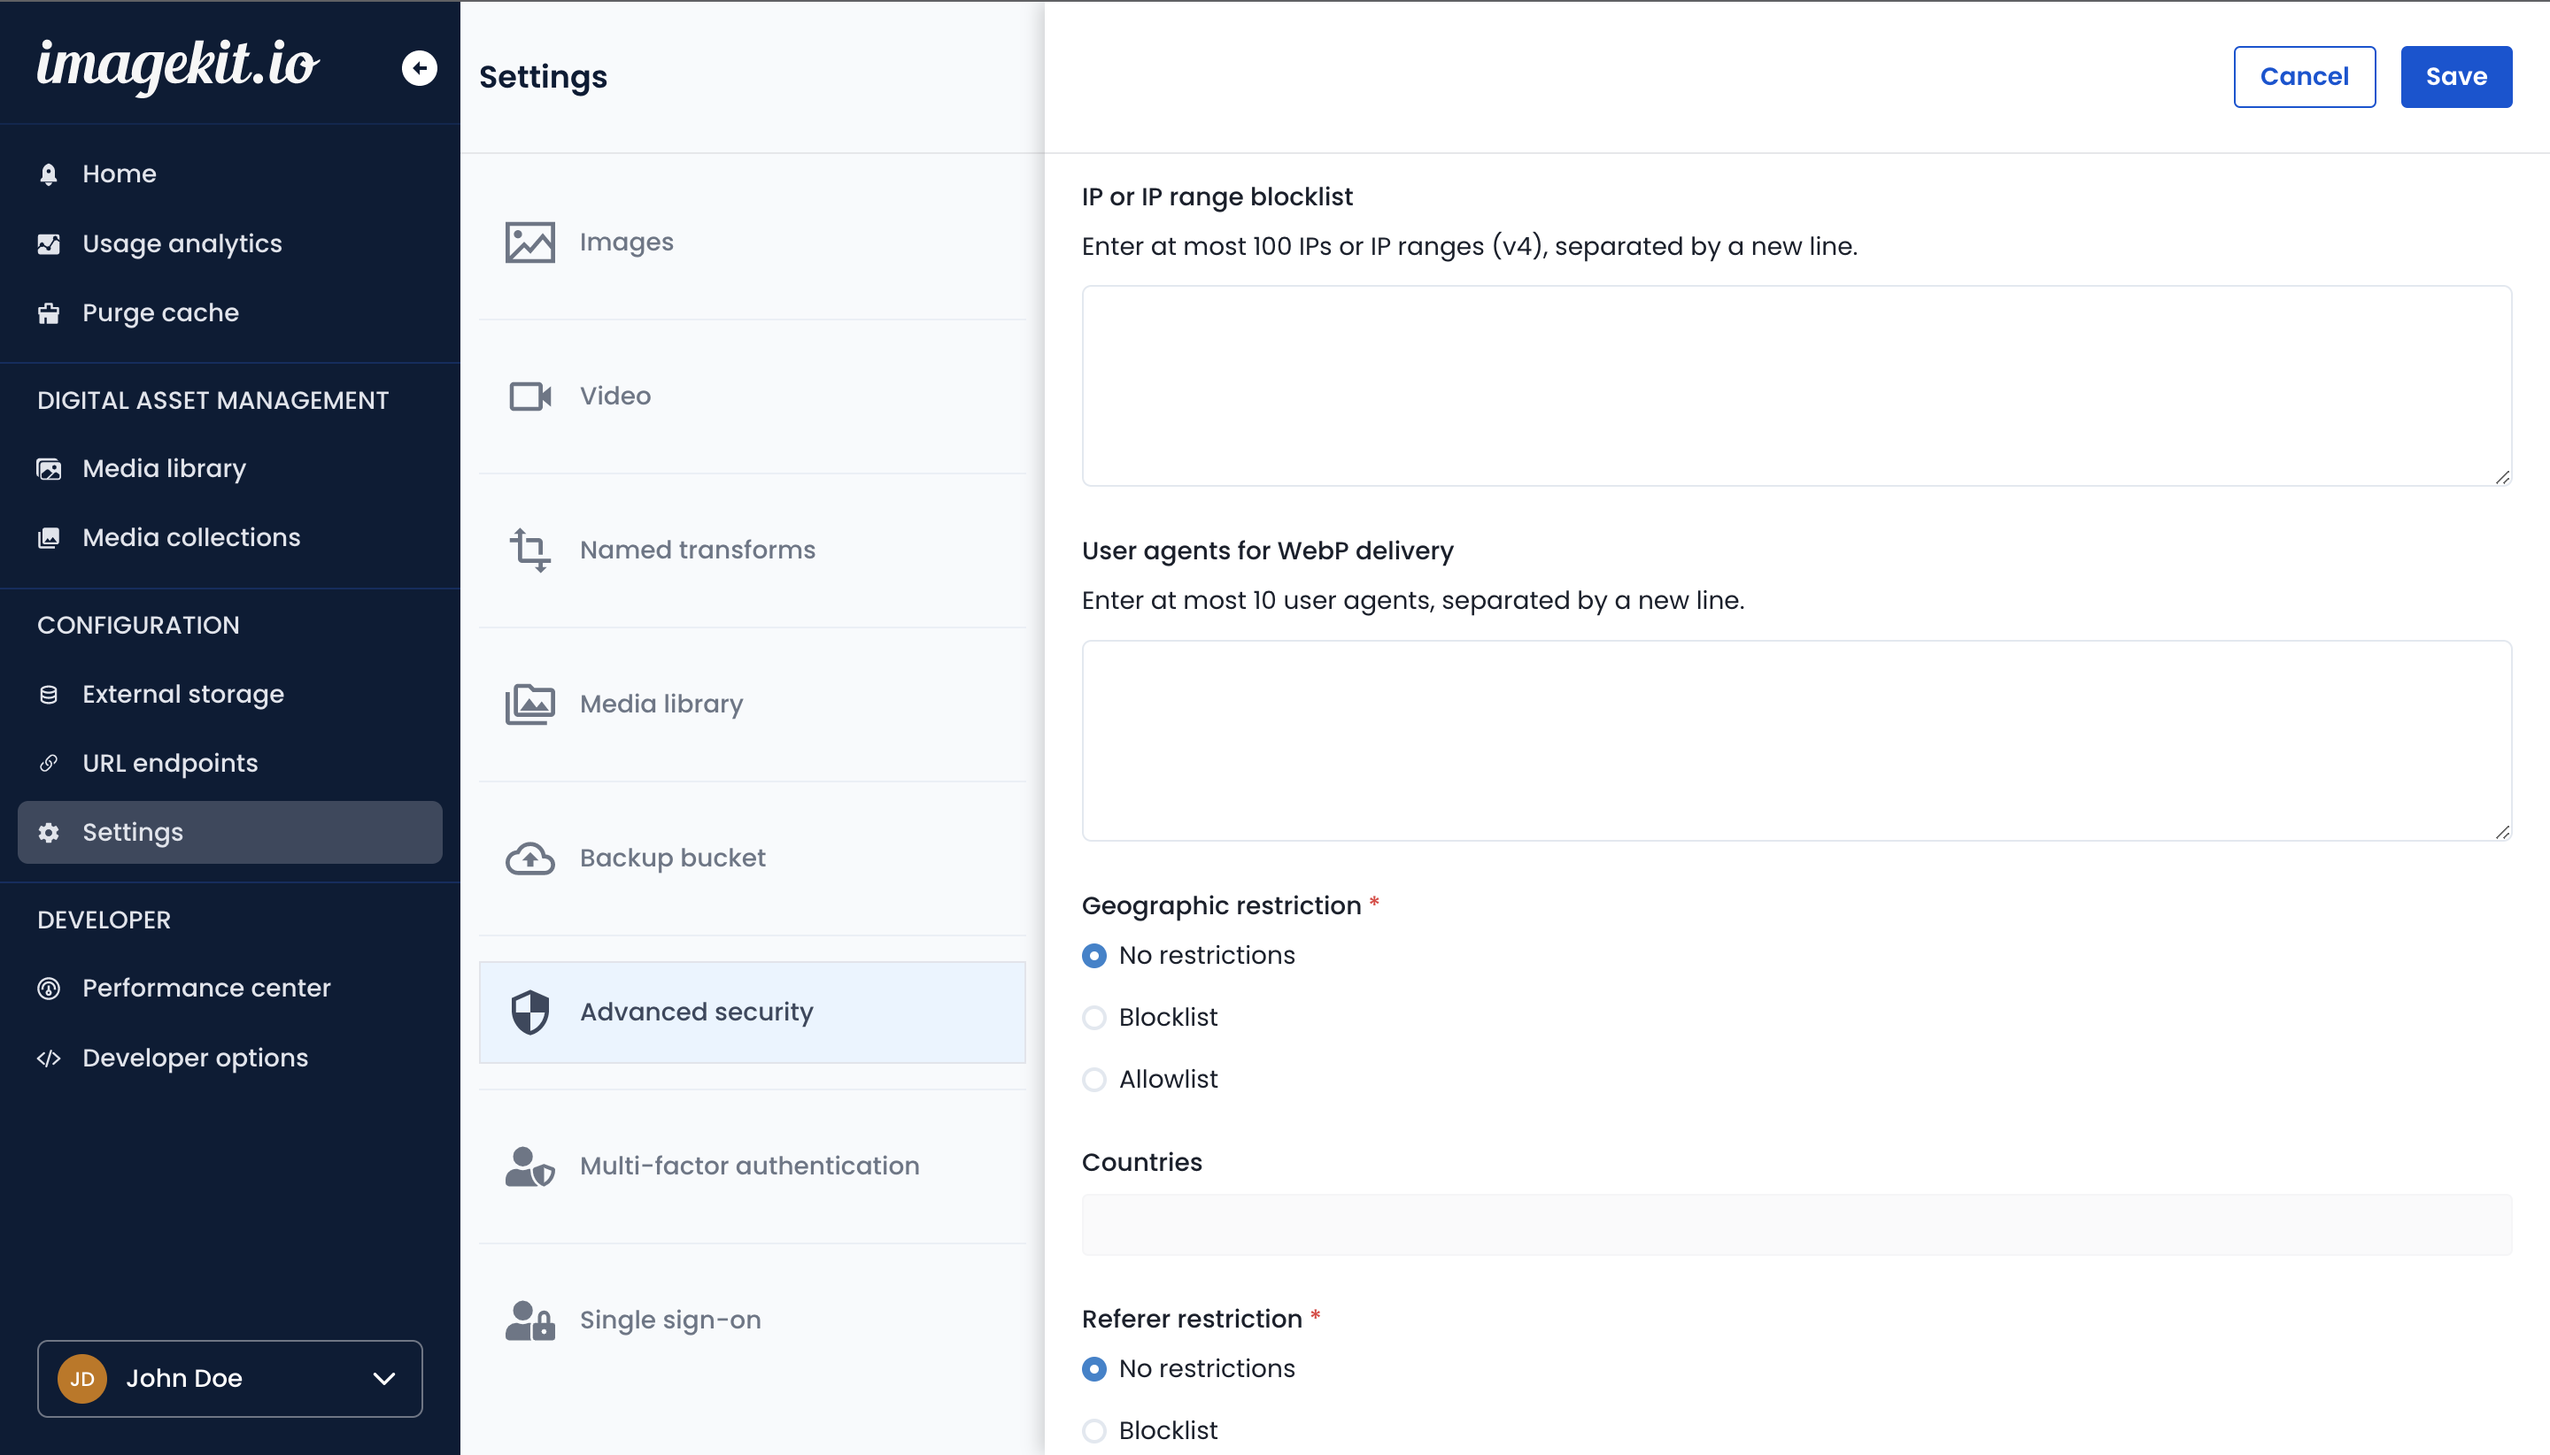
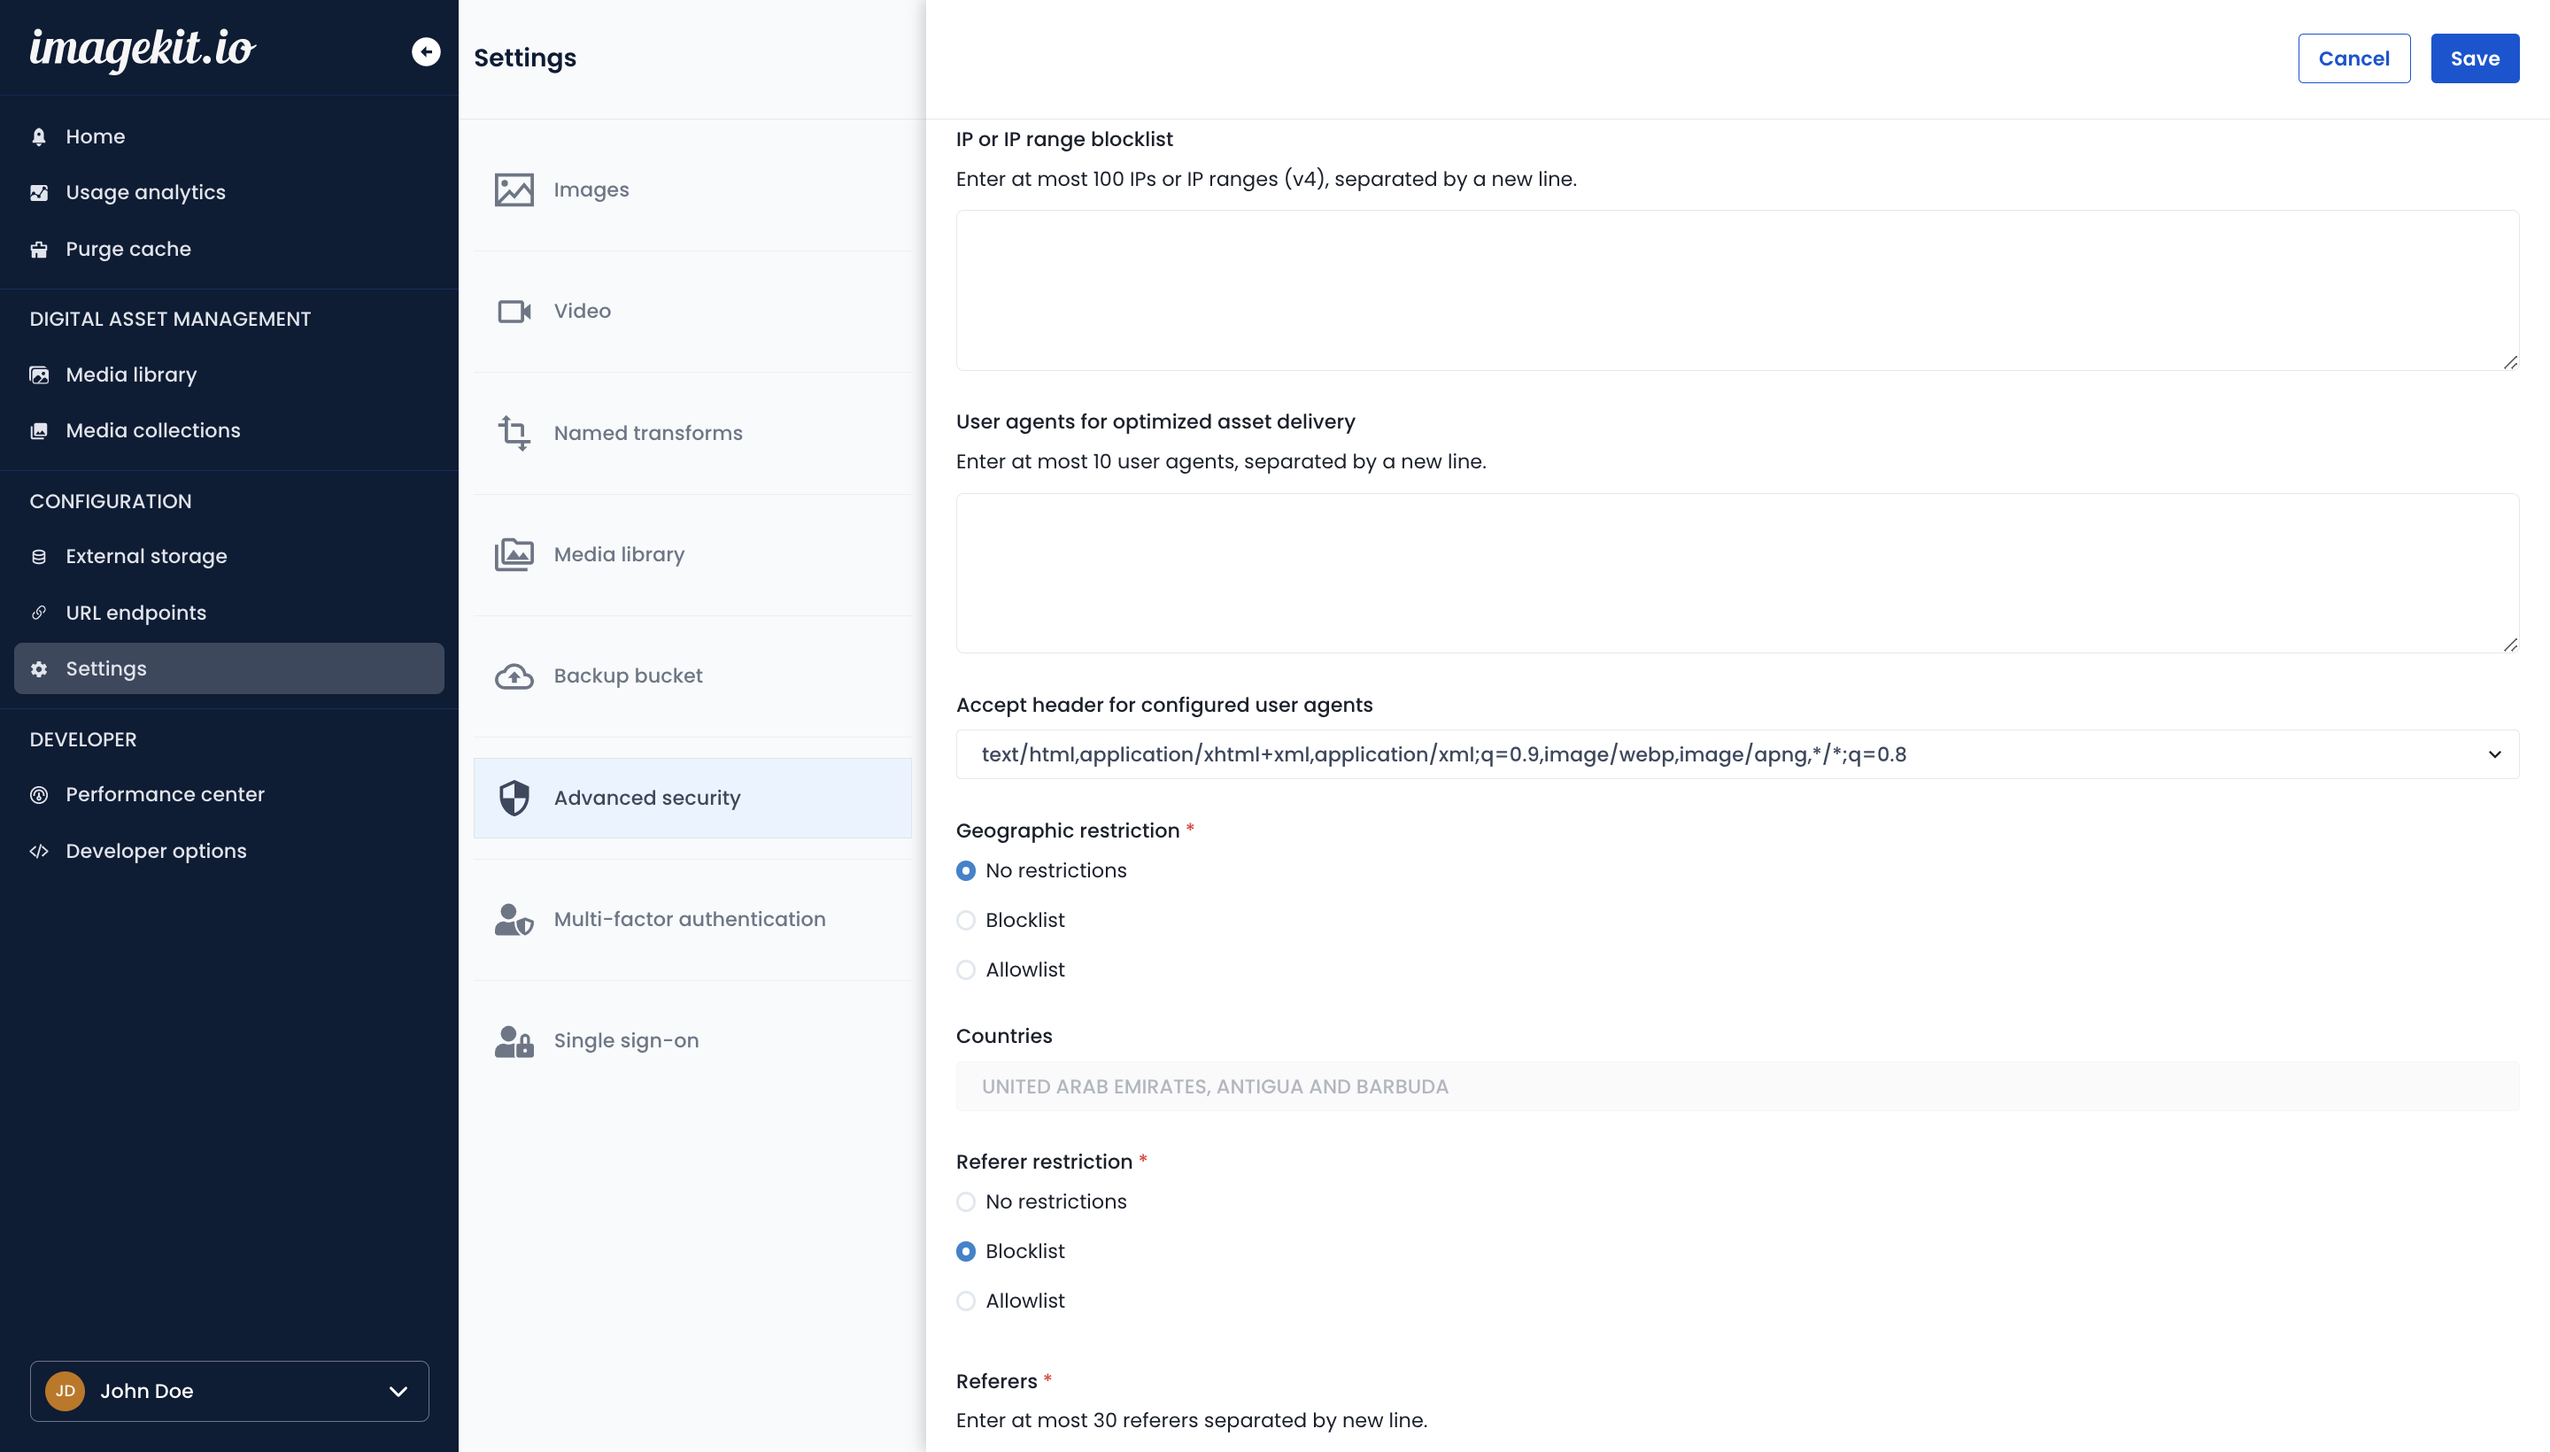
feat: add customizable accept header

diff --git a/features/advanced-security-settings.md b/features/advanced-security-settings.md
@@ -9,10 +9,10 @@ ImageKit provides advanced security and optimization features that you can use t
 
 It includes the following features:
 1. IP and IP range blocking
-2. WebP image delivery based on user agents
+2. Optimized asset delivery based on user agents
 3. Geographic restriction
 4. HTTP Referrer-based restriction
-5. Improved caching of images
+5. Improved caching of assets
 
 ![Advanced security settings in ImageKit's dashboard](<../.gitbook/assets/advanced-security-settings.png>)
 
@@ -36,21 +36,23 @@ Examples of valid input-
 - Absolute IPv4 - `163.120.4.15`
 - IPv4 range using CIDR notation - `10.0.0.0/24`. This blocks all IPs in range `10.0.0.0` to `10.0.0.255`.
 
-## WebP image delivery based on user agents
+## Optimized asset delivery based on user agents
 
 {% hint style="info" %}
 **Limits**
 - You can configure at most 10 user agents for WebP image delivery.
 {% endhint %}
 
-You can set the user agents for which you want to deliver WebP images using this feature. Using this, you can serve optimized images on your application.
+You can set the user agents for which you want to deliver optimized assets using this feature. Using this, you can serve optimized images on your application.
 
-Use the advanced security settings on the dashboard to input a list of user agents, each separated by a new line, to configure this setting for your requests.
+To configure this setting for your requests, go to the advanced security settings on the dashboard to provide a list of user agents, each separated by a new line.
 
-These specified user agents need not be an exact match to the request's user agent. ImageKit will deliver the WebP image if the user agent in your request contains any of the defined user agents as a substring.
+You can specify the accept header from the given options in the dropdown for requests with the configured user agents.
+
+These user agents do not have to be an exact match to the user agent header sent in the request. If the user agent in your request has any of the defined user agents as a substring, ImageKit will send the optimized asset.
 
 For example:
-- If you configure the user agent `Android 11`, a request having the user agent `Linux; U; Android 11` would deliver a WebP image.
+- If you configure the user agent `Android 11` and accept headers for the configured user agents `text/html,application/xhtml+xml,application/xml;q=0.9,image/webp,image/apng,*/*;q=0.8`, for a request having the user agent header `Linux; U; Android 11`, ImageKit would deliver a WebP image.
 
 ## Geographic restriction
 
